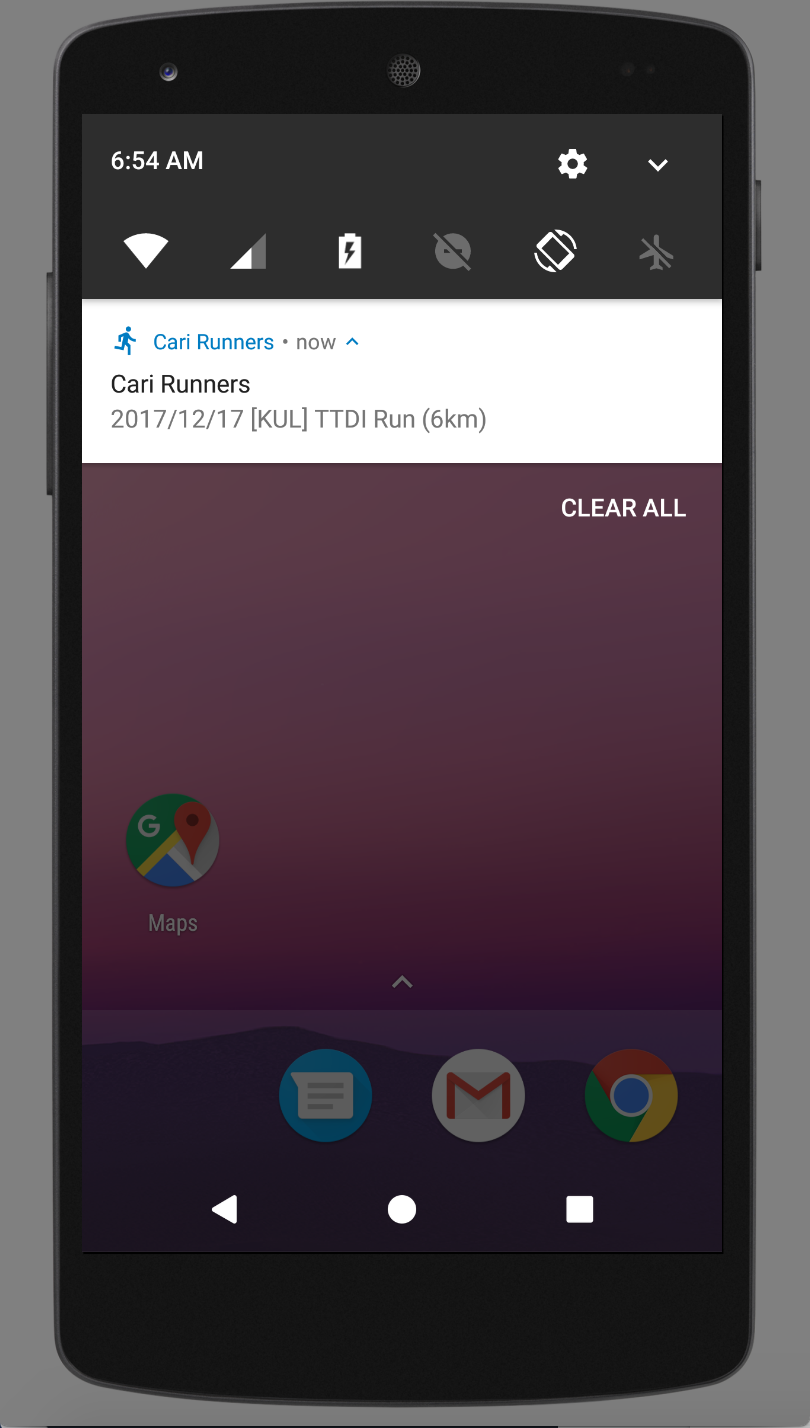
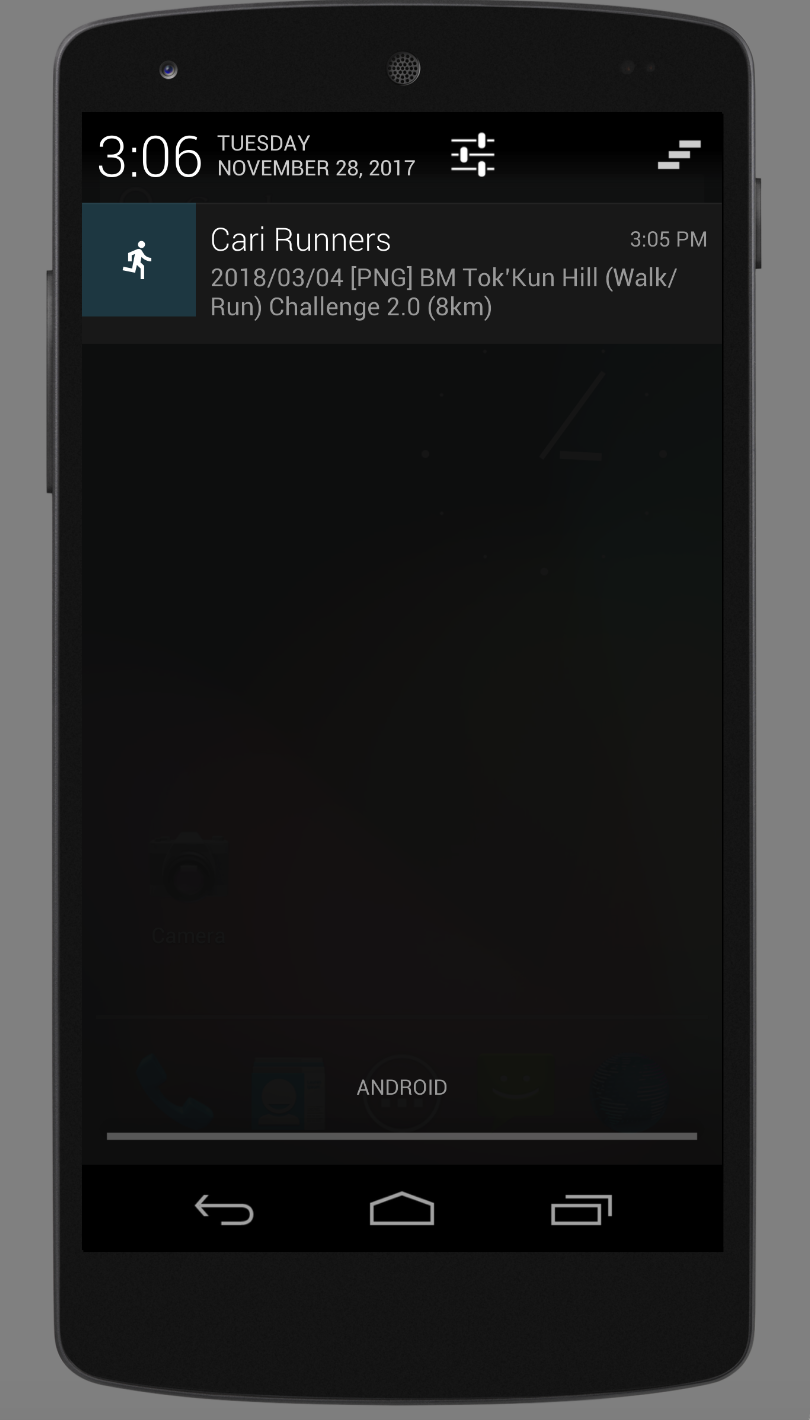
- Update screenshot. - Add launch screen.

diff --git a/base/src/main/java/com/blogspot/carirunners/run/MainActivity.java b/base/src/main/java/com/blogspot/carirunners/run/MainActivity.java
@@ -19,6 +19,7 @@ public class MainActivity extends BaseActivity {
 
     @Override
     protected void onCreate(@Nullable Bundle savedInstanceState) {
+        setTheme(R.style.AppTheme);
         super.onCreate(savedInstanceState);
         setContentView(R.layout.main_activity);
         navigationController.navigateToPage();
